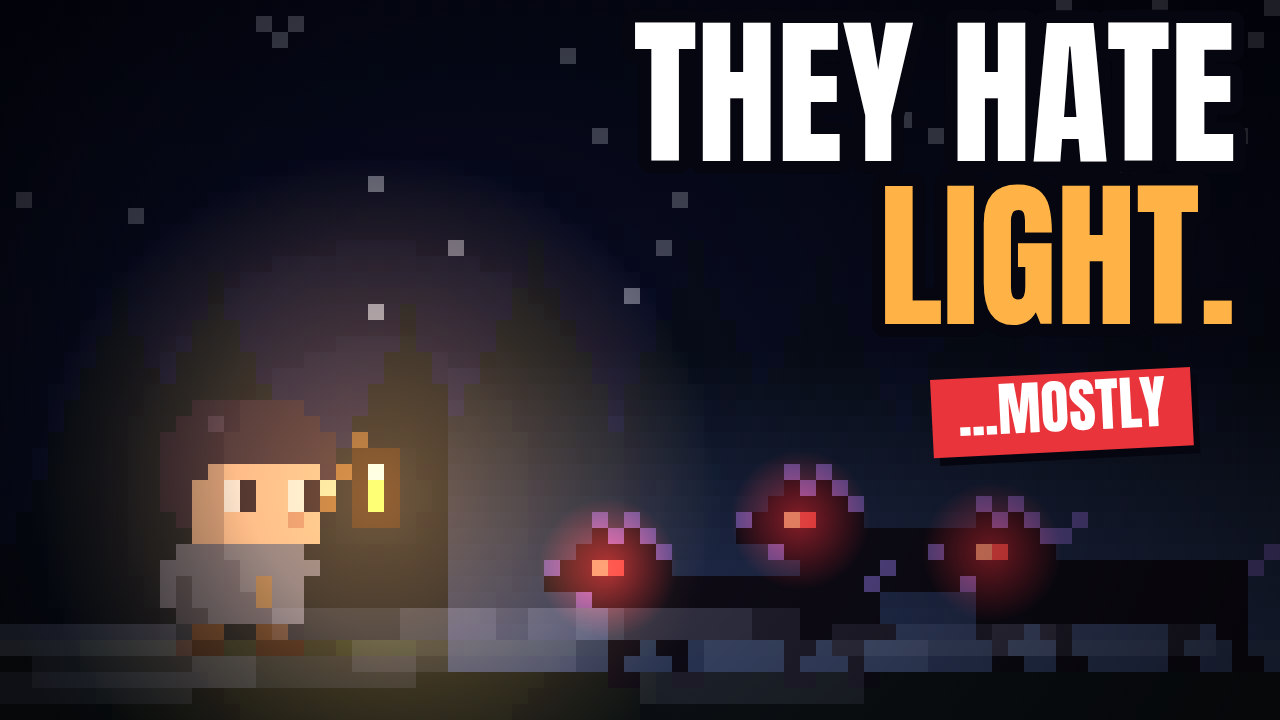
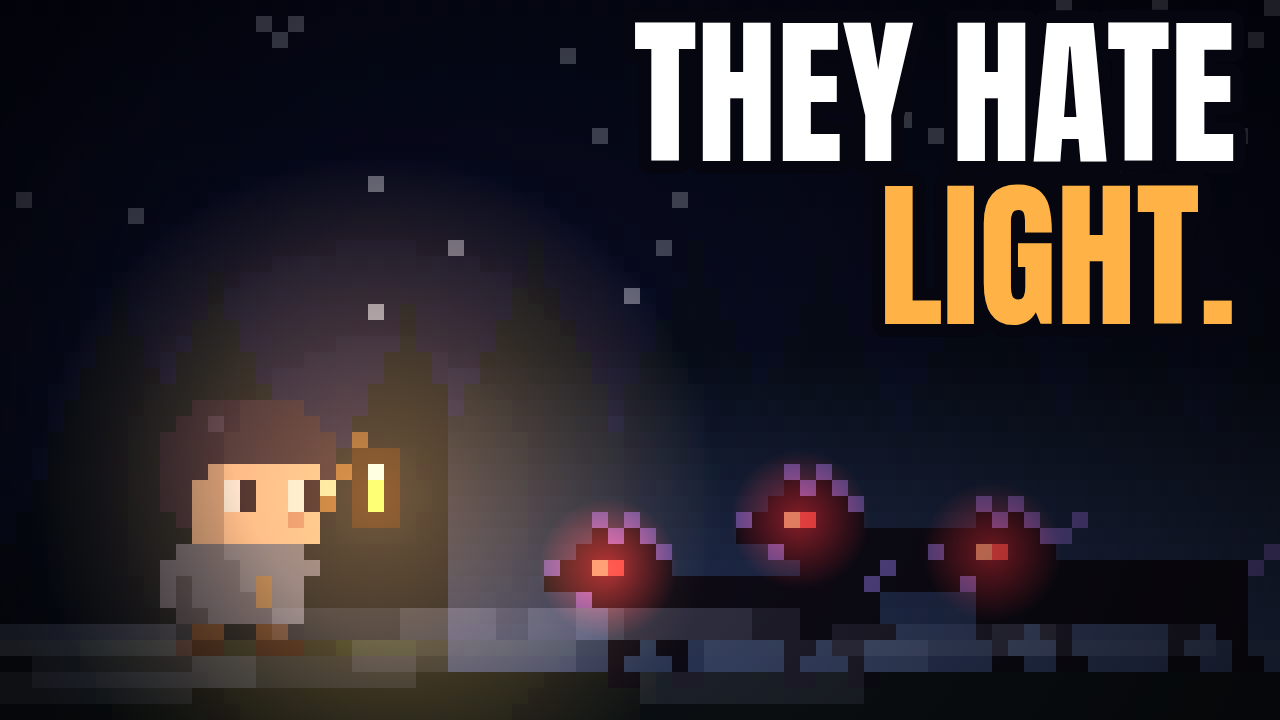
Ashenmoor: drop the MOSTLY tag from thumbnail B
Claude-Session: https://claude.ai/code/session_01Sd3Hxc2eDaMq7USovGK3tn

Changed region(s): [[0.7188, 0.4889, 0.9375, 0.6417]]

diff --git a/ashenmoor/tools/thumbnails.html b/ashenmoor/tools/thumbnails.html
@@ -88,7 +88,6 @@ function thumb2(){
   for(const [x,gy] of hounds)glow(m,(x+4)*K,(gy-8)*K+8,70,'255,40,40',.55);m.globalCompositeOperation='source-over';
   const v=m.createRadialGradient(W*.35,H*.6,H*.3,W/2,H/2,H*.95);v.addColorStop(0,'rgba(0,0,0,0)');v.addColorStop(1,'rgba(0,0,0,.55)');m.fillStyle=v;m.fillRect(0,0,W,H);
   headline(m,[[["THEY HATE",'#ffffff']],[["LIGHT.",'#ffb347']]],1236,36,160,'right');
-  badge(m,'...MOSTLY',930,380,58,'#e8343a','#ffffff');
 }
 const go=()=>{thumb1();thumb2();window.__done=true};
 (document.fonts?document.fonts.load('150px Anton').then(go,go):go());

diff --git a/ashenmoor/HANDOFF.md b/ashenmoor/HANDOFF.md
@@ -69,4 +69,4 @@ It renders the soundtrack offline, draws every frame at 30 fps and encodes with 
 
 ## Thumbnails
 
-`thumbnails/episode-1-thumbnail-A.png` ("What's down there?") and `-B.png` ("They hate light. ...Mostly") are new pixel scenes drawn for the thumbnail, not frames from the video. They are drawn in `tools/thumbnails.html` (bigger pixels, x16) with the Anton font in `assets/fonts/`. Edit the scenes or text there, then run `node ashenmoor/tools/render-thumbnails.js`.
+`thumbnails/episode-1-thumbnail-A.png` ("What's down there?") and `-B.png` ("They hate light.") are new pixel scenes drawn for the thumbnail, not frames from the video. They are drawn in `tools/thumbnails.html` (bigger pixels, x16) with the Anton font in `assets/fonts/`. Edit the scenes or text there, then run `node ashenmoor/tools/render-thumbnails.js`.
